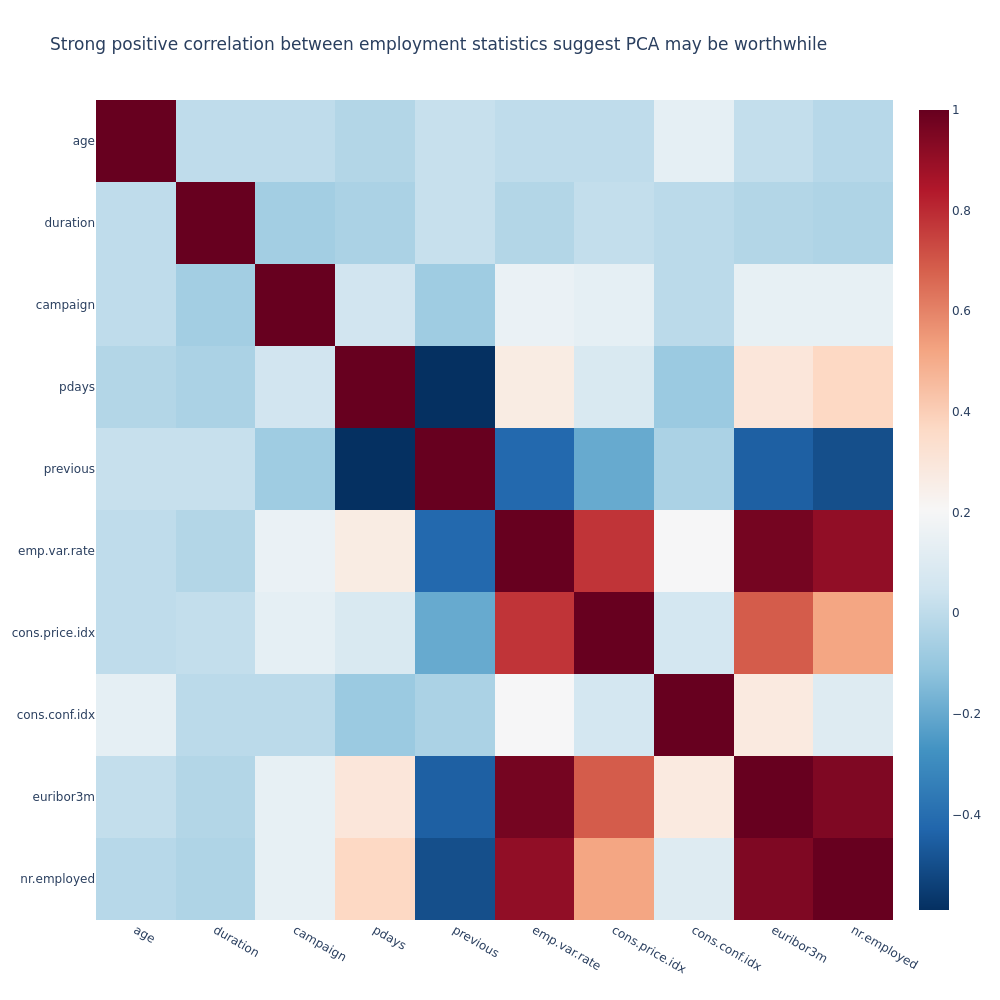
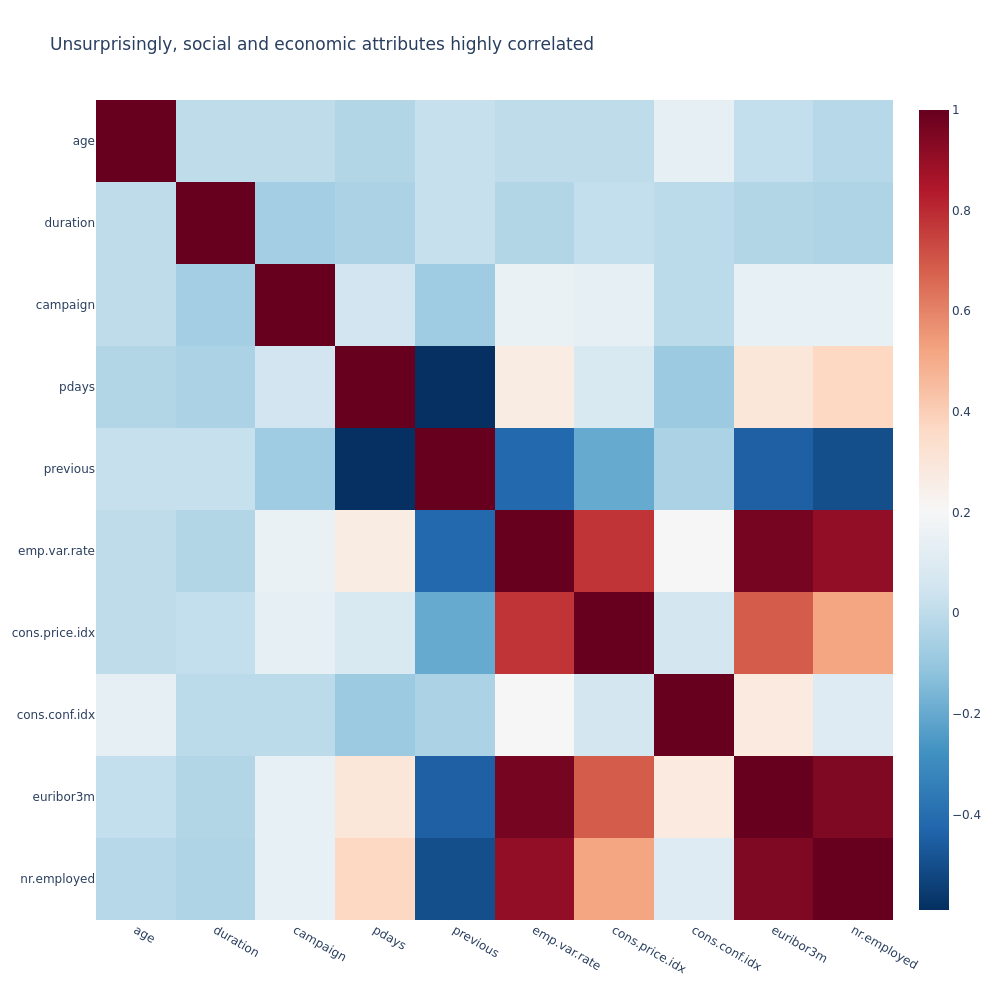
More readme data and clean up graph

Changed region(s): [[0.062, 0.031, 0.837, 0.062]]

diff --git a/README.md b/README.md
@@ -19,6 +19,8 @@ A repository focused on assessing whether someone will accept a marketing campai
         - [Duration analysis](#duration-analysis)
         - [Calls analysis](#calls-analysis)
         - [Calls X Duration analysis](#calls-x-duration-analysis)
+        - [Days since last contact analysis](#days-since-last-contact-analysis)
+        - [Correlation Matrix](#correlation-matrix)
 
 ## Link to notebook
 
@@ -171,3 +173,23 @@ That is the more you call a prospect, the more likely they will say no.
 I was surprised by this finding. I would have expected that the more calls would lead to brief conversation if a person
  picked up, but there is barely a correlation between the values. 
 
+#### Days since last contact analysis
+
+<img src="images/days_since_last_contact_acceptance_ratio.png"/>
+
+The histogram above indicates that the best time to follow up with a customer is within the week of the first call.
+I would not be surprised
+if the banking institution provided guidance to their employees
+to call on the 3rd and 6th days after their first call.  
+
+#### Correlation Matrix
+
+<img src="images/correlation.png"/>
+
+Social and economic attributes are highly correlated.
+This fact may lend itself to PCA or early feature pruning.
+The number of contacts and number of days
+that passed by after the client was last
+being negatively correlated is also not surprising.
+We should be careful of multicollinearity with our dataset.
+This won't be an issue for decision tree and SVM models but it will be for logistic regression. 
